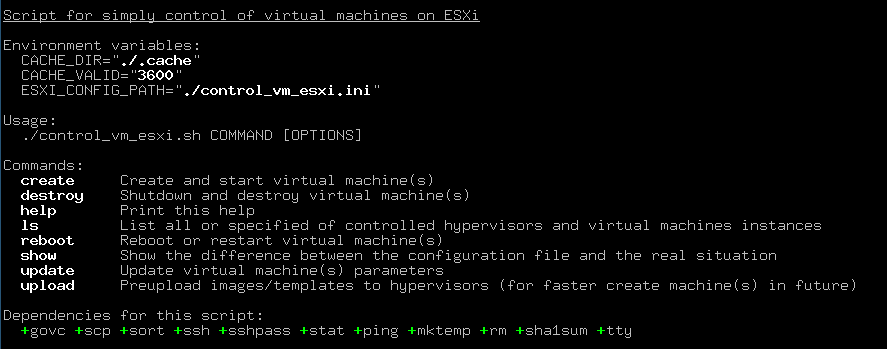
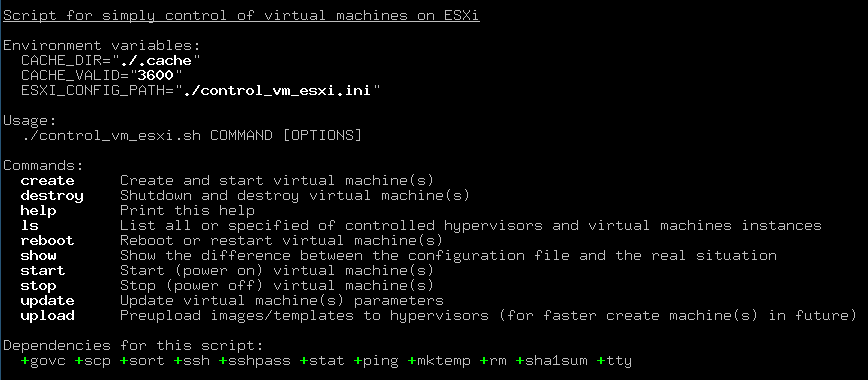
[control_vm_esxi.sh]: Added new 'start' and 'stop' commands (refs #137)

diff --git a/docs/CONTROL_VM_ESXI.md b/docs/CONTROL_VM_ESXI.md
@@ -9,6 +9,8 @@
   * [Команда `destroy`](#команда-destroy)
   * [Команда `reboot`](#команда-reboot)
   * [Команда `show`](#команда-show)
+  * [Команда `start`](#команда-start)
+  * [Команда `stop`](#команда-stop)
   * [Команда `update`](#команда-update)
   * [Команда `upload`](#команда-upload)
 * [Конфигурация](#конфигурация)
@@ -19,8 +21,8 @@
 ### Общая информация
 
 Скрипт простого управления (без)дисковыми виртуальными машинами на `VmWare ESXi` гипервизоре: умеет создавать,
-уничтожать, перезагружать, обновлять параметры на лету и показывать разницу между конфигурацией и реальным положением
-дел на гипервизоре.
+уничтожать, включать, выключать, перезагружать, обновлять параметры на лету и показывать разницу между
+конфигурацией и реальным положением дел на гипервизоре.
 
 Скрипт работает по следующему алгоритму (в круглых скобках указаны необязательные этапы, всё зависит от команды):
 
@@ -29,8 +31,9 @@
 -> (подготовка карты виртуальных машин/настроек автостарта/карты хранилищ на всех или выборочных гипервизорах)
   -> (предварительное копирование необходимых ISO-образов и HDD-шаблонов на гипервизоры)
     -> работа указанной команды для одной или нескольких виртуальных машин
-      -> (удаление неиспользуемых более ISO-образов и HDD-шаблонов на гипервизорах)
-        -> вывод статуса обработанных ISO-образов c HDD-шаблонами (при необходимости) и виртуальных машин
+      -> запуск хук-скриптов для каждой виртуальной машины при необходимости
+        -> (удаление неиспользуемых более ISO-образов и HDD-шаблонов на гипервизорах)
+          -> вывод статуса обработанных ISO-образов c HDD-шаблонами (при необходимости) и виртуальных машин
 ```
 
 В скрипте реализована поддержка последовательной обработки нескольких виртуальных машин за один проход.
@@ -51,10 +54,12 @@
 
 Скрипт поддерживает следующие команды:
 * **create** - Создание и запуск виртуальных машин;
-* **destroy** - Остановка и уничтожение виртуальных машин;
+* **destroy** - Выключение (питания) и уничтожение виртуальных машин;
 * **ls** - Вывод списка всех контролируемых виртуальных машин и гипервизоров, описанных в конфигурационном файле;
 * **reboot** - Перезагрузка или рестарт виртуальных машин;
 * **show** - Вывод разницы конфигурации виртуальных машин между гипервизором и конфигурационным файлом;
+* **start** - Включение (питания) виртуальных машин;
+* **stop** - Выключение (питания) виртуальных машин;
 * **update** - Обновление настроек виртуальных машин на лету;
 * **upload** - Предварительная загрузка `ISO`-образов и `HDD`-шаблонов на гипервизоры;
 
@@ -176,7 +181,8 @@ $ ./control_vm_esxi.sh -d -f vm-example10 vm-example11 vm-example12
 
 ##### Команда `destroy`
 
-Команда для остановки и уничтожения виртуальных машин, в том числе и тех, которые не указаны в конфигурационном файле.
+Команда для выключения (питания) и уничтожения виртуальных машин, в том числе и тех, которые не указаны в
+конфигурационном файле.
 Формат запуска:
 ```bash
 $ ./control_vm_esxi.sh destroy [options] <vm_name> [vm_name] [<esxi_name>/<vm_name>] ...
@@ -202,8 +208,8 @@ $ ./control_vm_esxi.sh reboot [options] <vm_name> [vm_name] [<esxi_name>/<vm_nam
 ```
 
 Также, как и команда **destroy**, в качестве параметров принимаются имена только виртуальных машин, имена гипервизоров
-здесь указать нельзя, для безопасности. Если префиксом указать название конкретного гипервизора, то скрипт сможет перезагрузить
-виртуальную машину, которая не указана в конфигурационном файле.
+здесь указать нельзя, для безопасности. Если префиксом указать название конкретного гипервизора, то скрипт сможет
+перезагрузить виртуальную машину, которая не указана в конфигурационном файле.
 
 Опции:
 * **-fr** - Принудительно перезагрузить виртуальную машину, если пакет `vmware-tools` не запущен;
@@ -258,6 +264,36 @@ $ ./control_vm_esxi.sh show vm-example10
 
 Тем самым команда позволяет очень простым способом смотреть актуальное состояние виртуальных машин в конфигурационном
 файле и на самих гипервизорах.
+
+##### Команда `start`
+
+Команда включения (питания) виртуальных машин, в том числе и тех, которые не указаны в конфигурационном файле.
+Формат запуска:
+```bash
+$ ./control_vm_esxi.sh start <vm_name> [vm_name] [<esxi_name>/<vm_name>] ...
+```
+
+В качестве параметров команда принимает имена только виртуальных машин, имена гипервизоров здесь указать нельзя,
+для безопасности. Также, если указать префиксом название конкретного гипервизора, то скрипт сможет включить
+виртуальную машину, которая не указана в конфигурационном файле.
+
+##### Команда `stop`
+
+Команда для выключения (питания) виртуальных машин, в том числе и тех, которые не указаны в конфигурационном
+файле.
+Формат запуска:
+```bash
+$ ./control_vm_esxi.sh stop [options] <vm_name> [vm_name] [<esxi_name>/<vm_name>] ...
+```
+
+В качестве параметров команда принимает имена только виртуальных машин, имена гипервизоров здесь указать нельзя,
+для безопасности. Также, если указать префиксом название конкретного гипервизора, то скрипт сможет выключить
+виртуальную машину, которая не указана в конфигурационном файле.
+
+Опции:
+* **-fs** - Принудительно выключит виртуальную машину, если пакет `vmware-tools` не запущен;
+
+Все поддерживаемые опции были рассмотрены в секции по [команде **create**](#команда-create).
 
 ##### Команда `update`
 
@@ -506,10 +542,10 @@ $ ./control_vm_esxi.sh create vm-example10
 
 ### Хуки
 
-После некоторых операций (`create`, `destroy`, `restart`) скрипт умеет запускать произвольные скрипты (хуки) для
-каких-либо до-настроек (например, регистрация DNS-записи, настройка балансировщика и т.д.). Путь до хук-скриптов
-указывается параметром `local_hook_path`, в котором можно указать как путь до конкретного исполняемого скрипта,
-так и до директории со скриптами, которые будут выполнены в алфавитном порядке.
+После некоторых операций (`create`, `destroy`, `restart`, `start`, `stop`, `update`) скрипт умеет запускать
+произвольные скрипты (хуки) для каких-либо до-настроек (например, регистрация DNS-записи, настройка балансировщика и т.д.).
+Путь до хук-скриптов указывается параметром `local_hook_path`, в котором можно указать как путь до конкретного исполняемого
+скрипта, так и до директории со скриптами, которые будут выполнены в алфавитном порядке.
 Скрипту передаются следующие переменные окружения:
 
 | Имя переменной | Описание переменной | Копия параметра |
@@ -518,7 +554,7 @@ $ ./control_vm_esxi.sh create vm-example10
 | **ESXI_HOSTNAME** | Адрес гипервизора | `esxi_hostname` |
 | **STATUS** | Статус операции | |
 | **STATUS_DESCRIPTION** | Дополнительная информация по статусу операции | |
-| **TYPE** | Тип операции, из которой хук-скрипт был вызван (сейчас поддерживаются: `create`, `destroy`, `restart`) | |
+| **TYPE** | Тип операции, из которой хук-скрипт был вызван (сейчас поддерживаются: `create`, `destroy`, `restart`, `start`, `stop`, `update`) | |
 | **VM_IPV4_ADDRESS** | Адрес виртуальной машины | `vm_ipv4_address` |
 | **VM_SSH_PASSWORD** | SSH-пароль для доступа к виртуальной машине | `vm_ssh_password` |
 | **VM_SSH_PORT** | SSH-порт для доступа к виртуальной машине | `vm_ssh_port` |
@@ -544,6 +580,9 @@ $ ./control_vm_esxi.sh create vm-example10
 | REGISTERED/OLD REVERTED | Виртуальная машина была создана, но не доступна по сети, поэтому старый инстанс был возвращен, а новый выключен (была включена опция `-d`) |
 | SKIPPED ESXI | Все виртуальные машины на гипервизоре были пропущены из-за какой-либо ошибки |
 | SKIPPED VM | Виртуальная машина была пропущена из-за какой-либо ошибки |
+| STARTED/PINGING | Виртуальная машина включена и доступна по сети |
+| STARTED/NO PINGING | Виртуальная машина включена, но не доступна по сети |
+| STOPPED | Виртуальная машина выключена |
 | UPDATED | Обновлен параметр виртуальной машины |
 | UPDATE NOT REQUIRED | Обновление параметра виртуальной машины не требуется (уже имеет нужное значение) |
 

diff --git a/docs/EXAMPLES.md b/docs/EXAMPLES.md
@@ -136,6 +136,11 @@ $ ./control_vm_esxi.sh destroy -fs vm-example10
 $ ./control_vm_esxi.sh destroy -sr esxi2/test1
 ```
 
+Уничтожение виртуальной машины `vm-example12` с `HDD`-диском (опция `-ed`):
+```bash
+$ ./control_vm_esxi.sh destroy -ed vm-exmaple12
+```
+
 Отображение виденья всего конфигурационного файла скриптом:
 ```bash
 $ ./control_vm_esxi.sh ls all
@@ -162,6 +167,17 @@ $ ./control_vm_esxi.sh show -i esxi3
 момент состояния для `vm-example10` виртуальной машины без построения полной карты расположения виртуальных машин (опция `-n`):
 ```bash
 $ CACHE_VALID="-" ./control_vm_esxi.sh show -n vm-example10
+```
+
+Включение ранее выключенной виртуальной машины `vm-example10`:
+```bash
+$ ./control_vm_esxi.sh start vm-example10
+```
+
+Выключение виртуальной машины `test3` на `esxi1` гипервизоре, не описанной в конфигурационном файле с принудительным
+выключением, если `vmware-tools` не запущен (опция `-fs`):
+```bash
+$ ./control_vm_esxi.sh stop -fs esxi1/test3
 ```
 
 Замена `ISO`-образов на лету для всех виртуальных машин на `esxi2`-гипервизоре, с принудительной проверкой

diff --git a/README.md b/README.md
@@ -30,7 +30,7 @@
 * Поддержка обработки нескольких виртуальных машин за один запуск с выводом статуса по каждой из них;
 * Создание виртуальных машин с возможностью удаления одноименной на другом гипервизоре (аналог миграции)
   и/или пересоздания уже существующих виртуальных машин;
-* Уничтожение и перезагрузка виртуальных машин, в том числе и не указанных в конфигурационном файле;
+* Уничтожение, включение, выключение и перезагрузка виртуальных машин, в том числе и не указанных в конфигурационном файле;
 * Автоматическое включение менеджера автостарта виртуальных машин в гипервизоре, если это необходимо;
 * Поддержка запуска различных вспомогательных скриптов (хуков);
 * Отображение различий настроек в конфигурационном файле и на гипервизорах;

diff --git a/CHANGELOG.md b/CHANGELOG.md
@@ -64,6 +64,9 @@ v1.210316
 
 ### control_vm_esxi.sh
 
+v4.??????
+- Добавлены новые команды `start` и `stop` для включения и выключения виртуальных машин, соответственно
+
 v4.220314
 - Теперь хук-скрипты запускаются всегда в независимости от статуса операции (ранее запускались только
   при удачном исходе). Статус операции и её детальное описание теперь передаются хук-скриптам в новых
